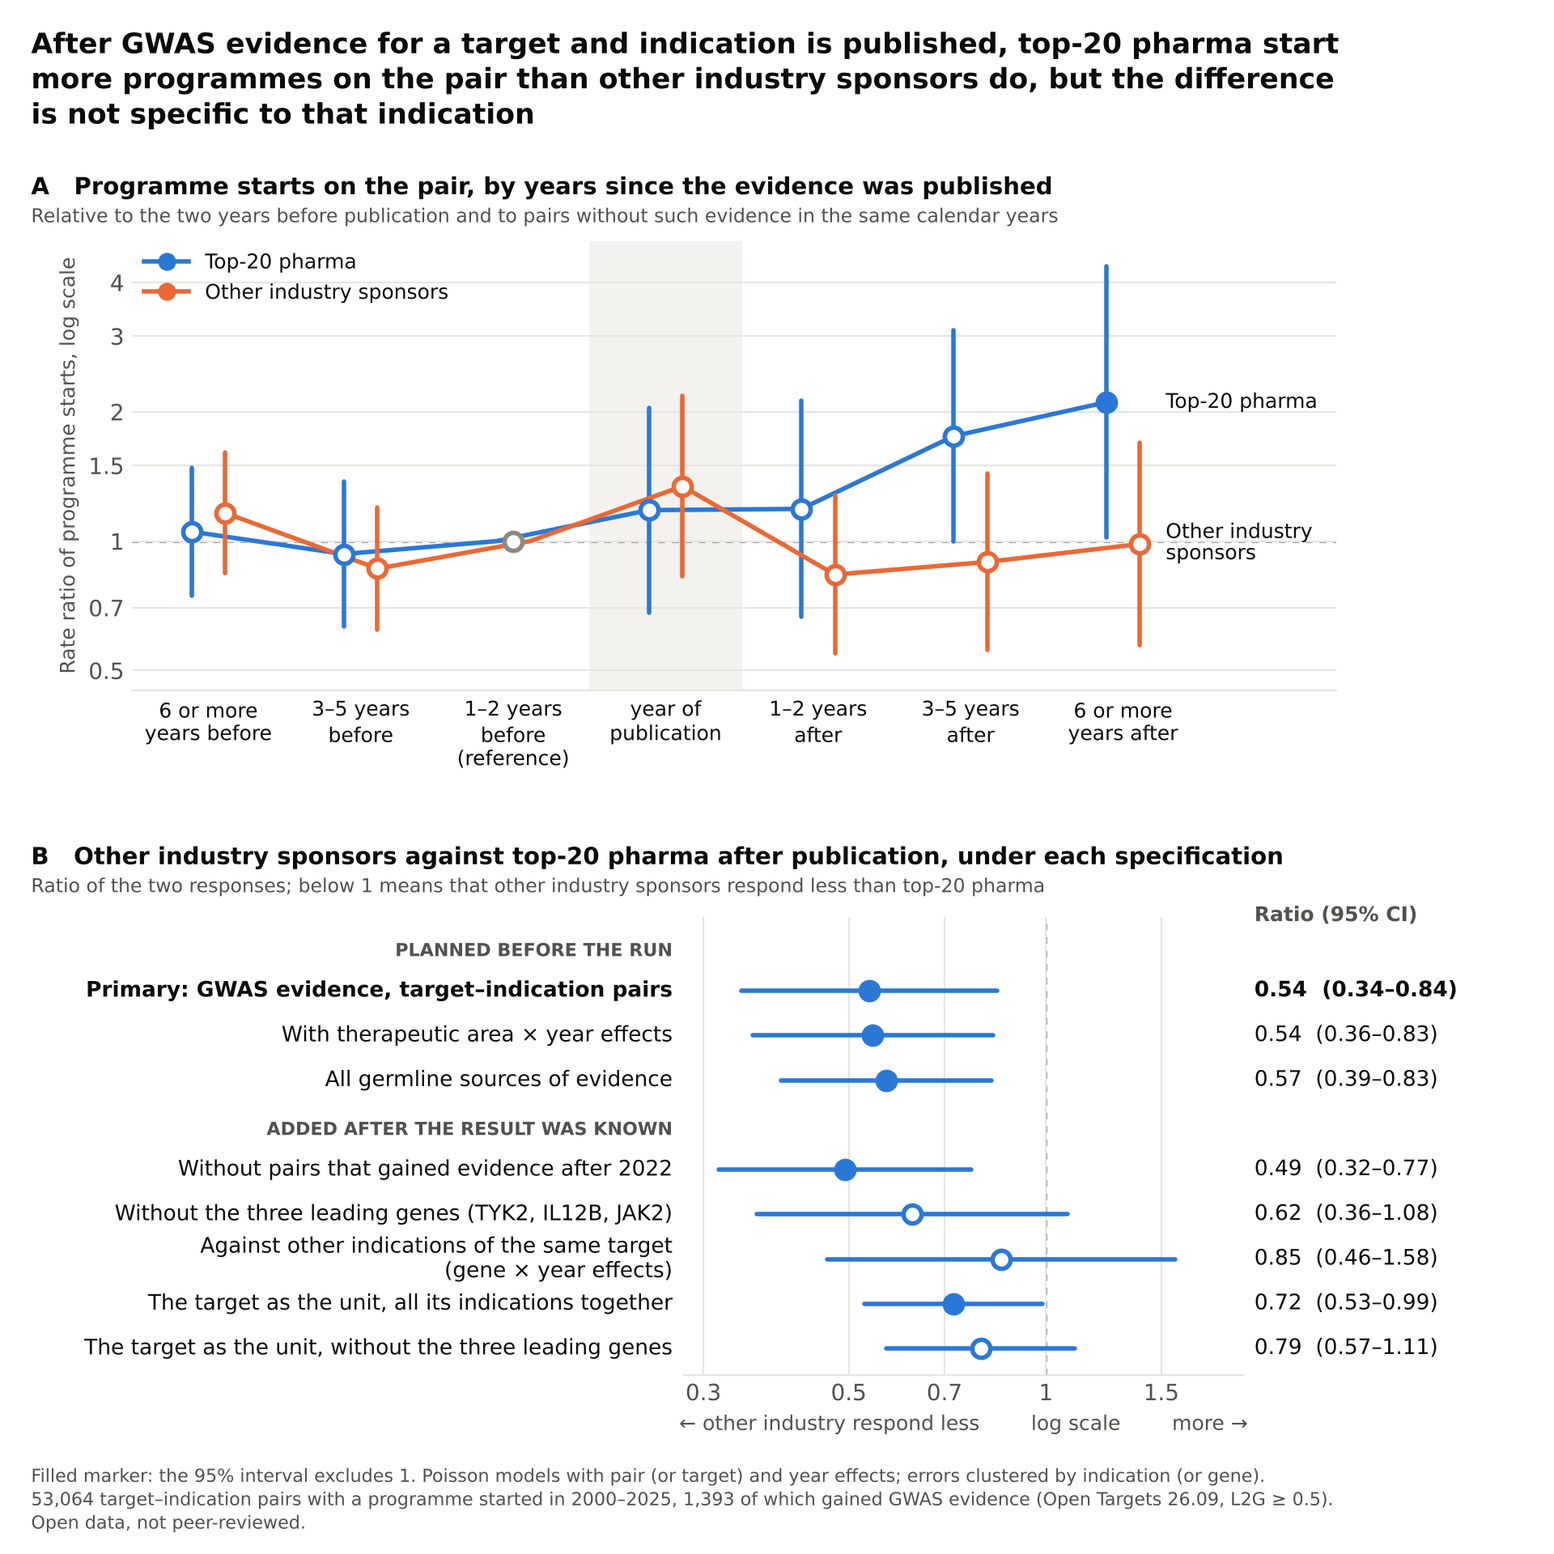
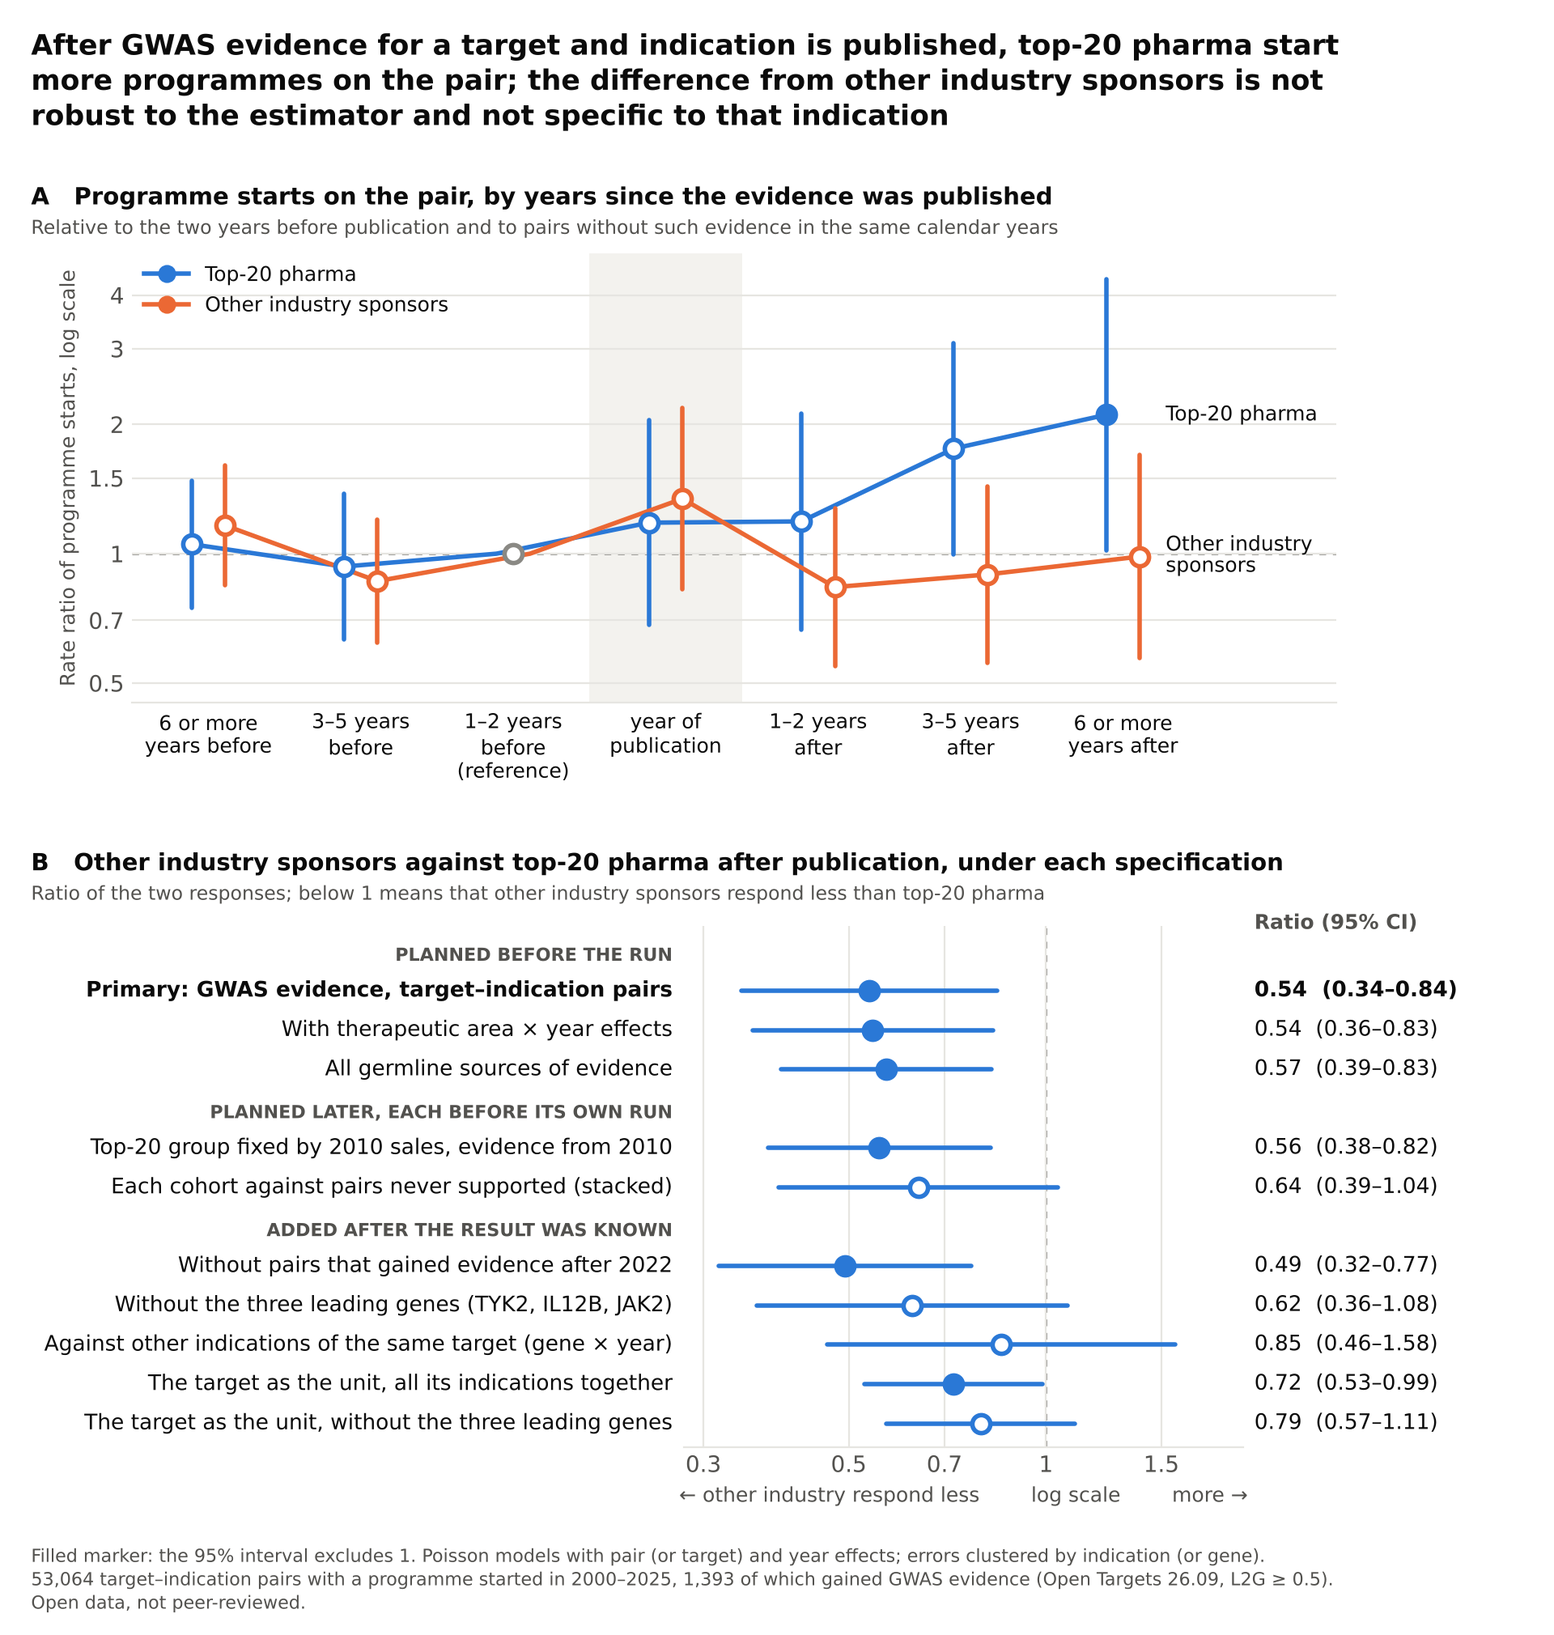
Figures checked and corrected: labels, the split by period, the later planned analyses, a shorter main figure; replication of the power figure

diff --git a/pilot/figure_evidence_arrival.py b/pilot/figure_evidence_arrival.py
@@ -1,6 +1,6 @@
 """Figure: programme starts around the publication of GWAS evidence for a target-indication pair.
 (A) the event study of top-20 pharma and of other industry sponsors, (B) the ratio of the two responses under the
-planned specifications and under the checks added after the result was known. All numbers are read from the result
+planned specifications, the two analyses planned later and the checks added after the result was known. All numbers are read from the result
 files of evidence_arrival.py.
 
 Usage: python pilot/figure_evidence_arrival.py results figures/evidence_arrival.png
@@ -50,16 +50,19 @@ ROWS = [
     ("main", "Primary: GWAS evidence, target–indication pairs", from_txt(RES, GWAS, D1, "post_other")),
     ("est", "With therapeutic area × year effects", from_txt(RES, GWAS, "D2. the same with therapeutic area x year x group fixed effects", "post_other")),
     ("est", "All germline sources of evidence", from_txt(RES, ALL, D1, "post_other")),
+    ("head", "PLANNED LATER, EACH BEFORE ITS OWN RUN", None),
+    ("est", "Top-20 group fixed by 2010 sales, evidence from 2010", from_txt(RES, "evidence_arrival_ot_gwas_top2010_from2010.txt", D1, "post_other")),
+    ("est", "Each cohort against pairs never supported (stacked)", from_txt(RES, "evidence_arrival_ot_gwas_cohorts.txt", "Stacked D1, years e-5 to e+5", "post_other")),
     ("head", "ADDED AFTER THE RESULT WAS KNOWN", None),
     ("est", "Without pairs that gained evidence after 2022", from_txt(RES, TO22, D1, "post_other")),
     ("est", "Without the three leading genes (TYK2, IL12B, JAK2)", from_txt(RES, GWAS, "G. D1 without the pairs of these three genes", "post_other")),
-    ("est", "Against other indications of the same target\n(gene × year effects)", from_txt(RES, GWAS, "G. D1 with gene x year x group fixed effects", "post_other")),
+    ("est", "Against other indications of the same target (gene × year)", from_txt(RES, GWAS, "G. D1 with gene x year x group fixed effects", "post_other")),
     ("est", "The target as the unit, all its indications together", from_txt(RES, GWAS, "H3. other industry against top-20 pharma, target level", "post_other")),
     ("est", "The target as the unit, without the three leading genes", from_txt(RES, GWAS, "H4. H3 without the three leading genes", "post_other")),
 ]  # fmt: skip
 
 fig, (ax, bx) = plt.subplots(
-    2, 1, figsize=(9.6, 9.6), dpi=200, gridspec_kw={"height_ratios": [1.0, 1.02], "hspace": 0.5}
+    2, 1, figsize=(9.6, 10.1), dpi=200, gridspec_kw={"height_ratios": [1.0, 1.16], "hspace": 0.46}
 )
 fig.patch.set_facecolor(SURFACE)
 
@@ -133,7 +136,8 @@ pb = bx.get_position()
 bx.set_position([0.44, pb.y0, 0.80 - 0.44, pb.height])
 pa, pb = ax.get_position(), bx.get_position()
 fig.text(0.02, 0.982, "After GWAS evidence for a target and indication is published, top-20 pharma start\nmore "
-         "programmes on the pair than other industry sponsors do, but the difference\nis not specific to that indication",
+         "programmes on the pair; the difference from other industry sponsors is not\nrobust to the estimator and not "
+         "specific to that indication",
          ha="left", va="top", fontsize=12.5, fontweight="bold", color=INK, linespacing=1.25)  # fmt: skip
 fig.text(0.02, pa.y1 + 0.03, "A   Programme starts on the pair, by years since the evidence was published", ha="left", color=INK, fontsize=10.5, fontweight="bold")  # fmt: skip
 fig.text(0.02, pa.y1 + 0.012, "Relative to the two years before publication and to pairs without such evidence in the same calendar years", ha="left", color=INK2, fontsize=8.5)  # fmt: skip

diff --git a/pilot/figure_main.py b/pilot/figure_main.py
@@ -26,7 +26,7 @@ keys = list(H)
 GROUPS = [
     ("DOES GENETIC EVIDENCE PREDICT SUCCESS?", [keys[0], keys[1]]),
     ("WHO STARTS PROGRAMMES THAT HAVE IT?", [keys[2], keys[6], keys[5]]),
-    ("WHEN MONEY GOT TIGHT (2022–25)", [keys[3], keys[4]]),
+    ("TRIALS STOPPED FOR MONEY", [keys[3], keys[4]]),
 ]
 # sponsors with a venture-capital fund among the owners named in Schedule 13D/13G filings (owners_models.py)
 OWNERS = "Venture-capital fund among the owners (SEC)\n→ genetic support of programmes"
@@ -83,19 +83,19 @@ def panel(ax, rows, xlim, ticks, xtext, value_header):
 fig, (ax_a, ax_b) = plt.subplots(
     2,
     1,
-    figsize=(9.6, 2.4 + 0.5 * (len(rows_a) * 1.12 + len(rows_b))),
+    figsize=(9.6, 2.2 + 0.375 * (len(rows_a) * 1.12 + len(rows_b))),  # short enough to fit one A4 page
     dpi=200,
-    gridspec_kw={"height_ratios": [len(rows_a) * 1.12, len(rows_b)], "hspace": 0.36},
+    gridspec_kw={"height_ratios": [len(rows_a) * 1.12, len(rows_b)], "hspace": 0.3},
 )
 fig.patch.set_facecolor(SURFACE)
 panel(ax_a, rows_a, (0.3, 5.5), [0.33, 0.5, 1, 2, 4], 5.7, "Ratio (95% CI)")
-panel(ax_b, rows_b, (0.42, 1.55), [0.5, 0.7, 1, 1.4], 1.575, "Odds ratio (95% CI)")
+panel(ax_b, rows_b, (0.29, 1.55), [0.3, 0.5, 0.7, 1, 1.4], 1.575, "Odds ratio (95% CI)")
 ax_a.set_xlabel("← less          Odds ratio or rate ratio, log scale          more →", color=INK2, fontsize=9)
 ax_b.set_xlabel("← less often          Odds ratio, log scale          more often →", color=INK2, fontsize=9)
 fig.text(0.02, 0.978, "Genetic evidence predicts success for every sponsor,\nbut small and privately financed sponsors "
          "do not start more programmes that have it", ha="left", va="top", fontsize=12.5, fontweight="bold",
          color=INK, linespacing=1.25)  # fmt: skip
-fig.subplots_adjust(left=0.37, right=0.79, top=0.865, bottom=0.095)
+fig.subplots_adjust(left=0.37, right=0.79, top=0.885, bottom=0.105)
 pos_a, pos_b = ax_a.get_position(), ax_b.get_position()
 fig.text(0.02, pos_a.y1 + 0.012, "A   Headline estimates", ha="left", color=INK, fontsize=10.5,
          fontweight="bold")  # fmt: skip
@@ -103,9 +103,11 @@ fig.text(0.02, pos_b.y1 + 0.036, "B   The small-sponsor gap in selection under e
          color=INK, fontsize=10.5, fontweight="bold")  # fmt: skip
 fig.text(0.02, pos_b.y1 + 0.018, "Odds that a programme has genetic support at its first trial, small industry "
          "sponsors against top-20 pharma", ha="left", color=INK2, fontsize=8.5)  # fmt: skip
-fig.text(0.02, 0.012, "Filled marker: the 95% interval excludes 1. 35,887 drug × indication programmes; Open Targets "
-         "26.09, ClinicalTrials.gov snapshot of 17 October 2026,\nSEC Form D 2009–2026 and Schedules 13D/13G 2001–2026, NIH RePORTER. Open data, "
-         "not peer-reviewed.", ha="left", va="bottom", color=INK2, fontsize=8, linespacing=1.3)  # fmt: skip
+fig.text(0.02, 0.012, "Filled marker: the 95% interval excludes 1. Small sponsors: up to 5 drugs in the selection and "
+         "advancement models, up to 20 trials in the stop rates.\nThe split by period is a separate model of top-20 pharma "
+         "and small sponsors only. 35,887 drug × indication programmes; Open Targets 26.09,\nClinicalTrials.gov snapshot "
+         "of 17 October 2026, SEC Form D 2009–2026 and Schedules 13D/13G 2001–2026, NIH RePORTER. Open data, not "
+         "peer-reviewed.", ha="left", va="bottom", color=INK2, fontsize=8, linespacing=1.3)  # fmt: skip
 fig.savefig(OUT, facecolor=SURFACE)
 for kind, label, v in rows_a + rows_b:
     if v:

diff --git a/factcheck/power_replication.py b/factcheck/power_replication.py
@@ -1,0 +1,64 @@
+"""Replication of the power figure of the working paper (Figure 2: sponsor x genetic-support interaction).
+
+Usage: python factcheck/power_replication.py RESULTS_DIR [REPLICATIONS]
+
+The figure was drawn from a simulation made before the data were assembled (400 replications per scenario); the
+script that produced it is not in this repository. This script repeats the simulation from the assumptions stated
+in the paper: a baseline phase transition of 28% without genetic support, a share of supported spells of 7% or 15%,
+25% of spells from VC-backed sponsors, a relative success (risk ratio) of genetic support that differs between the
+two sponsor groups, a logistic model with the interaction, and a two-sided Wald test at 0.05. With two binary
+regressors the logit is saturated, so the interaction and its standard error come from the eight cell counts.
+Writes power_replication.txt: the power shown in the figure and the replicated power for each scenario.
+"""
+
+import sys
+
+import numpy as np
+
+BASE, VC_SHARE = 0.28, 0.25
+# (relative success for other sponsors, for VC-backed sponsors) -> powers shown in the figure for
+# N = 3,000 and 7% supported, 3,000 and 15%, 6,000 and 7%, 6,000 and 15%
+FIGURE = {
+    (1.6, 1.0): (0.53, 0.80, 0.83, 0.99),
+    (1.4, 1.0): (0.30, 0.48, 0.48, 0.80),
+    (1.6, 1.2): (0.29, 0.48, 0.46, 0.78),
+}
+CELLS = ((3000, 0.07), (3000, 0.15), (6000, 0.07), (6000, 0.15))
+
+
+def power(n, share, rs_other, rs_vc, reps, rng):
+    hits = used = 0
+    for _ in range(reps):
+        vc, gs = rng.random(n) < VC_SHARE, rng.random(n) < share
+        y = rng.random(n) < np.where(gs, BASE * np.where(vc, rs_vc, rs_other), BASE)
+        c = np.array([[(y & (vc == v) & (gs == g)).sum(), (~y & (vc == v) & (gs == g)).sum()] for v in (0, 1) for g in (0, 1)], float)  # fmt: skip
+        if (c == 0).any():
+            continue
+        used += 1
+        lo = np.log(
+            c[:, 0] / c[:, 1]
+        )  # log odds in the cells: other/unsupported, other/supported, VC/unsupported, VC/supported
+        z = ((lo[3] - lo[2]) - (lo[1] - lo[0])) / np.sqrt((1 / c).sum())
+        hits += abs(z) > 1.959964
+    return hits / used
+
+
+def main(res, reps=4000):
+    rng = np.random.default_rng(20261124)
+    out = [f"Replication of the power figure: {reps} replications per scenario, seed 20261124 (the figure used 400)"]
+    out.append("rs_other  rs_vc      n  share  figure  replication  difference")
+    worst = 0.0
+    for (rs_other, rs_vc), shown in FIGURE.items():
+        for (n, share), f in zip(CELLS, shown):
+            p = power(n, share, rs_other, rs_vc, reps, rng)
+            worst = max(worst, abs(p - f))
+            out.append(f"{rs_other:8.1f}  {rs_vc:5.1f}  {n:5d}  {share:5.2f}  {f:6.2f}  {p:11.3f}  {p - f:+10.3f}")
+    out.append(
+        f"largest absolute difference: {worst:.3f} (the standard error of a power near 0.5 from 400 replications is 0.025)"
+    )
+    open(f"{res}/power_replication.txt", "w").write("\n".join(out) + "\n")
+    print("\n".join(out))
+
+
+if __name__ == "__main__":
+    main(sys.argv[1], int(sys.argv[2]) if len(sys.argv) > 2 else 4000)

diff --git a/pilot/headline.py b/pilot/headline.py
@@ -50,11 +50,11 @@ def headline(res="results"):
             from_txt(res, "robust.txt", "H1 gs_ante_first: + first-trial period, area, modality", tier_small),
         ),
         (
-            "Stops citing lack of funding,\nsmall sponsors, 2022–25 vs 2016–21",
+            "Stops citing lack of funding, small sponsors\n(up to 20 trials), 2022–25 vs 2016–21",
             from_rr(res, "Industry, small (<=20)", "nofund"),
         ),
         (
-            "Genetic support: trials stopped for\nfinancial/strategic reasons vs completed",
+            "Genetic support: trials stopped for financial/\nstrategic reasons vs completed (all years)",
             from_txt(
                 res,
                 "h4_biology.txt",
@@ -75,8 +75,8 @@ def headline(res="results"):
 
 def selection_checks(res="results"):
     """The small-sponsor odds ratio of the selection model (H1) under each specification reported in robust.txt:
-    list of (label, (estimate, lo, hi), kind); kind is "step", "main", "check" or "range" (lo, hi = the range of the
-    point estimate when each top-20 company is left out in turn; no confidence interval)."""
+    list of (label, (estimate, lo, hi), kind); kind is "step", "main", "check", "range" (lo, hi = the range of the
+    point estimate when each top-20 company is left out in turn; no confidence interval) or "head" (a heading)."""
     tier_small = "C(tier)[T.Industry, small (<=5 drugs)]"
     base = "H1 gs_ante_first: + first-trial period, area, modality"
 
@@ -124,4 +124,24 @@ def selection_checks(res="results"):
             "check",
         ),
         ("New drugs only (first indication)", h1("H1 gs_ante_first, novel-drug programmes only"), "check"),
+    ] + period_split(res)
+
+
+def period_split(res="results"):
+    """The small-sponsor gap before and from 2016 (post hoc model of evidence_arrival_2015.py: top-20 pharma and
+    small industry sponsors only), as rows for the figure; empty when that result file is absent."""
+    path = os.path.join(res, "evidence_arrival_ot_gwas_2015.txt")
+    if not os.path.exists(path):
+        return []
+    with open(path, encoding="utf-8") as fh:
+        lines = fh.read().splitlines()
+    start = next(
+        i for i, line in enumerate(lines) if line.strip() == "Top-20 pharma against: Industry, small (<=5 drugs)"
+    )
+    row = next(line for line in lines[start:] if line.startswith("inverse, other sponsors against top-20 pharma"))
+    before, after = (tuple(float(x) for x in m) for m in re.findall(r"OR (\d+\.\d+) \((\d+\.\d+) to (\d+\.\d+)\)", row))
+    return [
+        ("SPLIT BY PERIOD, MADE AFTER THE DATA WERE SEEN", None, "head"),
+        ("First trials before 2016", before, "check"),
+        ("First trials from 2016", after, "check"),
     ]

diff --git a/docs/data_dictionary.md b/docs/data_dictionary.md
@@ -94,6 +94,7 @@ sponsor group; `rs` is relative success (P(advance | support) / P(advance | no s
 | `company_table.txt`, `company_table.csv`, `company_table_drugs.csv` | Planned in `docs/plan_company_table.md`: for each top-20 company, programmes in indications with genetic insight, programmes with ex-ante genetic support, the share with a Wilson interval, the number expected at the group's rate for the company's mix of periods, areas and modalities, and the ratio of observed to expected with an exact Poisson interval; a likelihood-ratio test of company effects; the same from 2010, for novel programmes, and with the drug as the unit (check added after the first run). The csv files hold the primary table and the drug-level table |
 | `evidence_arrival_ot_gwas_2015.txt` | Exploratory, plan in `docs/plan_evidence_arrival_2015.md`: the stacked evidence-arrival model with the response allowed to differ for evidence published from 2016, for both industry groups together and by group, with the secondary runs; the share of new programmes with ex-ante support by period and group (descriptive); post hoc, the selection gap between top-20 pharma and other industry sponsors before and from 2016 (also for novel programmes, further indications and each size class; each estimate in both orientations) |
 | `premium_value.txt` | Illustration, plan in `docs/plan_premium_value.md`: advancement rates by phase with and without ex-ante support for industry sponsors (adjusted and unadjusted), the probability of approval from phase 1, phase 1 programmes per approval, and the expected clinical cost per programme and per approval under the phase costs of DiMasi et al. (2016), with bootstrap intervals by drug |
+| `power_replication.txt` | Replication of the power figure of the working paper (`factcheck/power_replication.py`): for each of the twelve scenarios, the power shown in the figure and the power from 4,000 replications under the assumptions stated in the paper |
 | `cvc_models.txt`, `cvc_sponsors.csv` | Exploratory: selection and advancement models that separate corporate investors from independent venture funds, in Crunchbase venture rounds and among the owners of public sponsors; per sponsor: years of the first venture round with an independent fund, a corporate investor, a drug-company investor and a foundation-owned investor, and the corporate investors named |
 | `vc_stops.txt`, `vc_stops_rates.csv`, `vc_stops_link_review.csv` | Exploratory: trial stops per 1,000 active trial-years in 2016–21 and 2022–25 by venture backing of the sponsor, with rate ratios and trial-year logits; every name link made for it, with hand rejections marked |
 | `h1_by_modality.txt` | Exploratory: the selection model within each type of drug and the test of whether the small-sponsor gap differs between small molecules and biologics |

diff --git a/docs/methods.md b/docs/methods.md
@@ -497,6 +497,17 @@ HG, Hansen RW. Innovation in the pharmaceutical industry: new estimates of R&D c
 2016;47:20–33; for lower cost estimates, Sertkaya A, Beleche T, Jessup A, Sommers BD. Costs of drug development
 and research and development intensity in the US, 2000–2018. *JAMA Netw Open* 2024;7(6):e2415445.
 
+## Figures (`figure_glance.py`, `figure_main.py`, `figure_evidence_arrival.py`, `factcheck/power_replication.py`)
+The three figure scripts read every plotted number from the result files (`headline.py`); nothing is typed in.
+In the main figure the last two rows of panel B come from a separate model (top-20 pharma and small sponsors only,
+split by the period of the first trial) fitted after the data were seen. "Small sponsors" means up to five drugs in
+the selection and advancement models and up to 20 registered trials in the stop rates; the figures say so. The
+evidence-arrival figure shows the planned specifications, the two analyses planned later (the top-20 group fixed by
+2010 sales and the stacked design) and the checks added after the result was known. The power figure of the working
+paper was drawn from a simulation made before the data were assembled, whose script is not in this repository;
+`factcheck/power_replication.py` repeats it from the stated assumptions with 4,000 replications per scenario, and
+the twelve powers differ from those in the figure by at most 0.041 (`results/power_replication.txt`).
+
 ## Reference date
 
 Trials count as started if their start date is on or before 17 October 2026, the date of the Open Targets download

diff --git a/README.md b/README.md
@@ -51,8 +51,8 @@ NIH grants), and all the code is in this repository.
 | 3. Small biotechs starting projects with genetic evidence, vs top-20 pharma | odds ratio 0.68 (0.49–0.93) |
 | 3. All other companies vs top-20 pharma, first trials before 2016 (split made after seeing the data) | odds ratio 1.14 (0.83–1.55), not significant |
 | 3. The same, first trials from 2016 | odds ratio 0.68 (0.48–0.97) |
-| 4. Small biotechs' trials stopped for lack of funding, 2022–25 vs 2016–21 | rate ratio 2.21 (1.45–3.37) |
-| 4. Genetic evidence of trials stopped for money, vs completed trials | odds ratio 0.75 (0.54–1.04) |
+| 4. Trials stopped for lack of funding at small biotechs (up to 20 registered trials), 2022–25 vs 2016–21 | rate ratio 2.21 (1.45–3.37) |
+| 4. Genetic evidence of trials stopped for money, vs completed trials (all years) | odds ratio 0.75 (0.54–1.04) |
 | 4. Small biotechs: jump in stops for money in 2022, beyond the earlier trend | ratio 2.12 (1.23–3.67) |
 | 4. Top-20 pharma: the same | ratio 1.34 (0.92–1.96) |
 | 4. Short of cash at the end of 2021 → trial stopped for money in 2022–23 | odds ratio 1.58 (0.68–3.66) |
